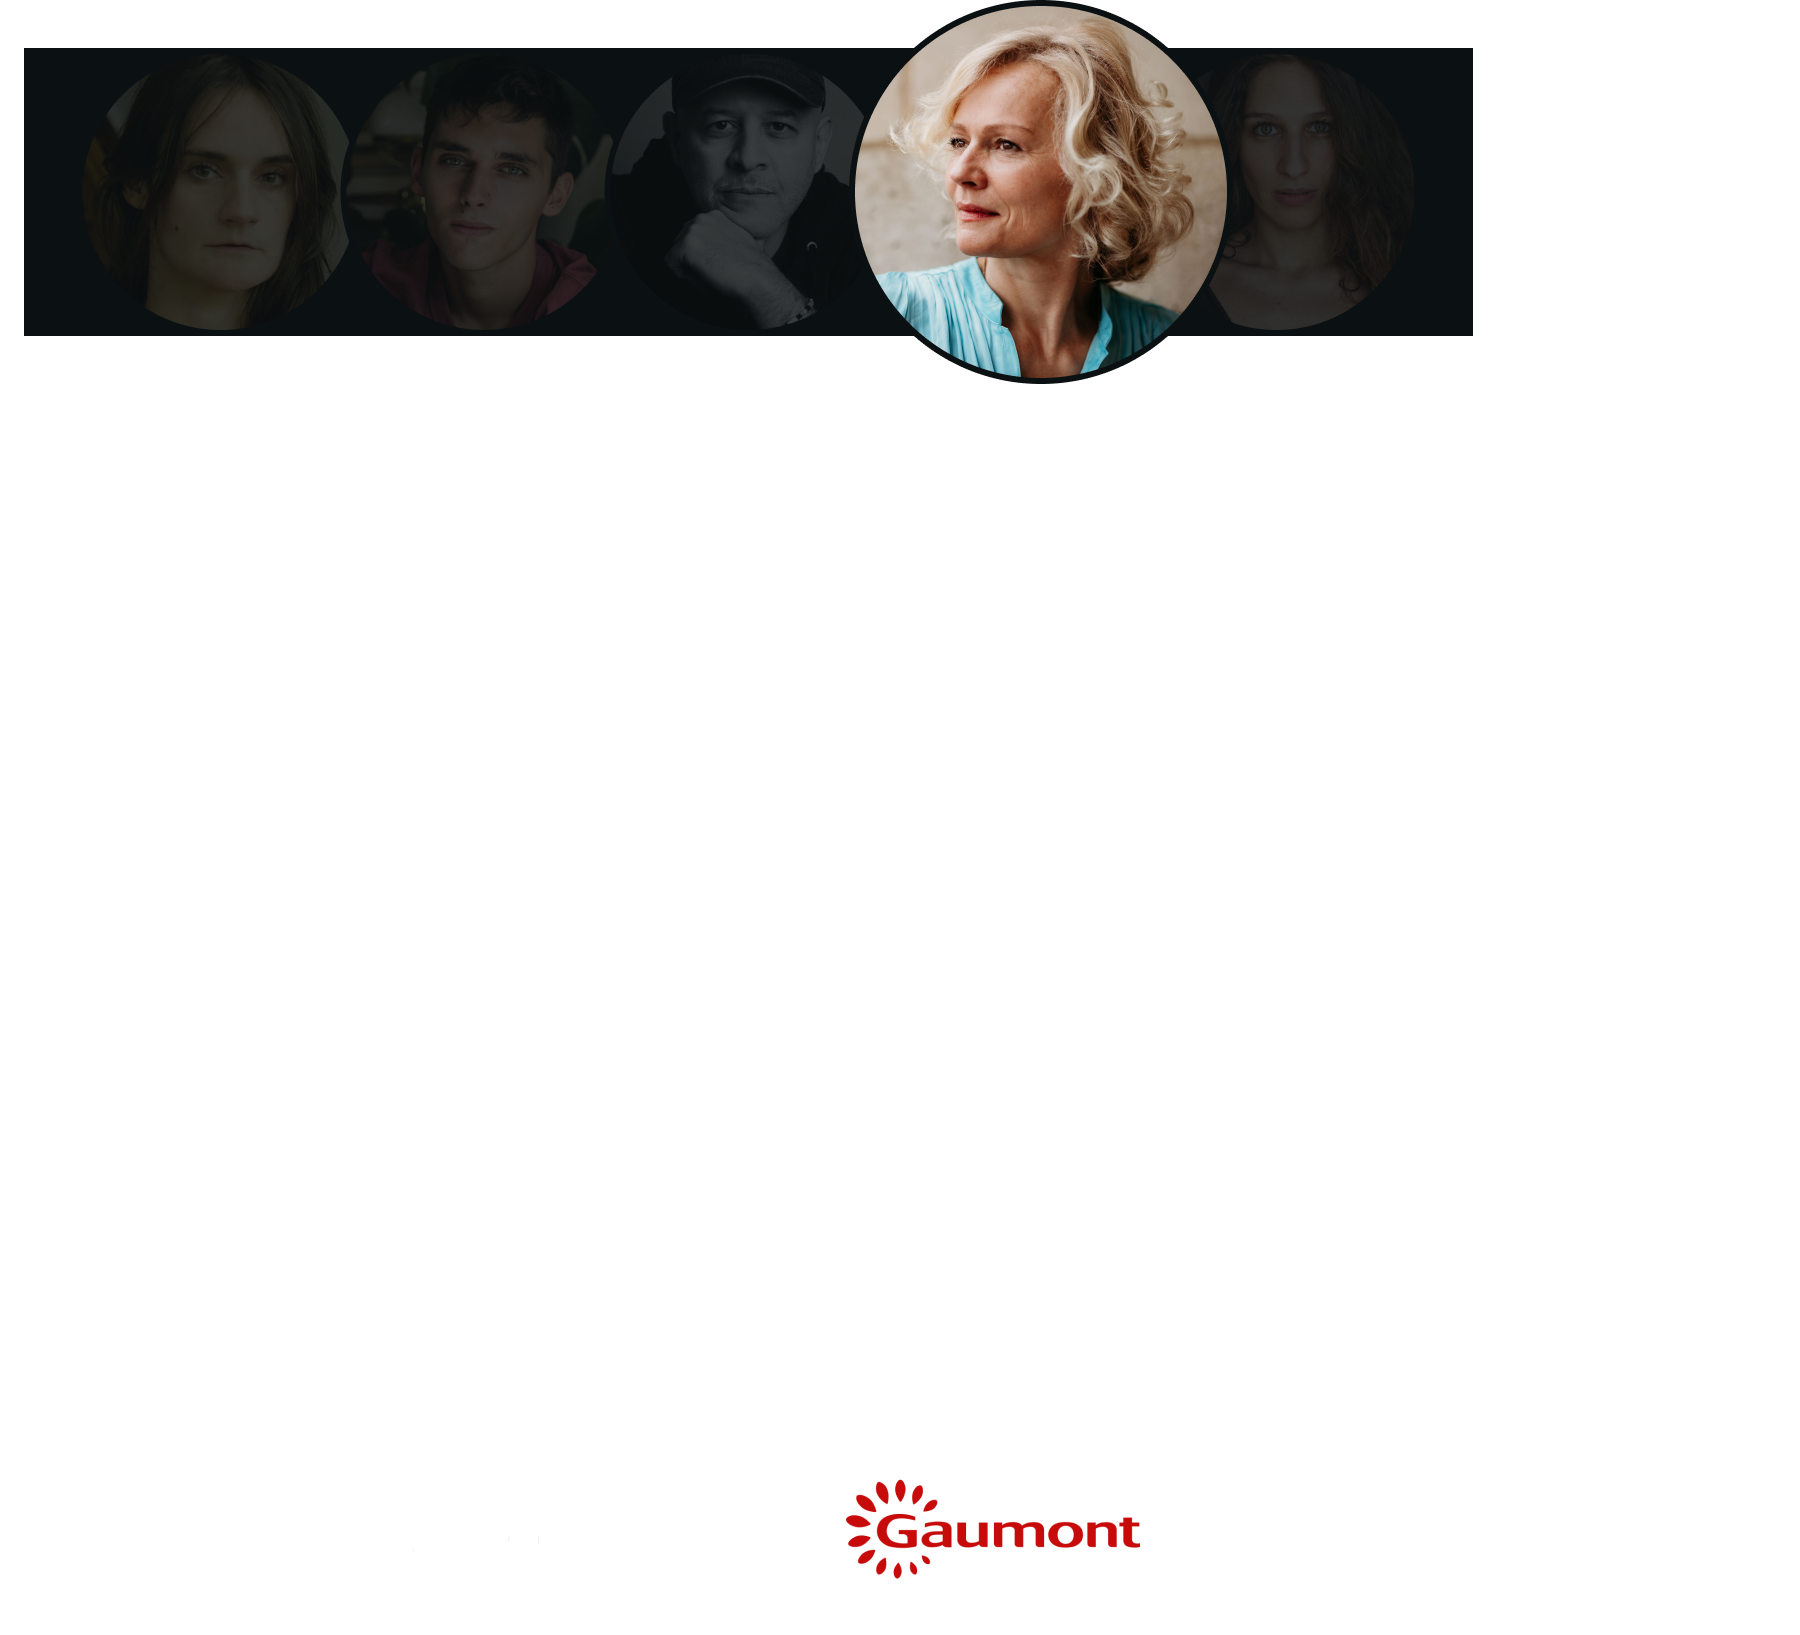
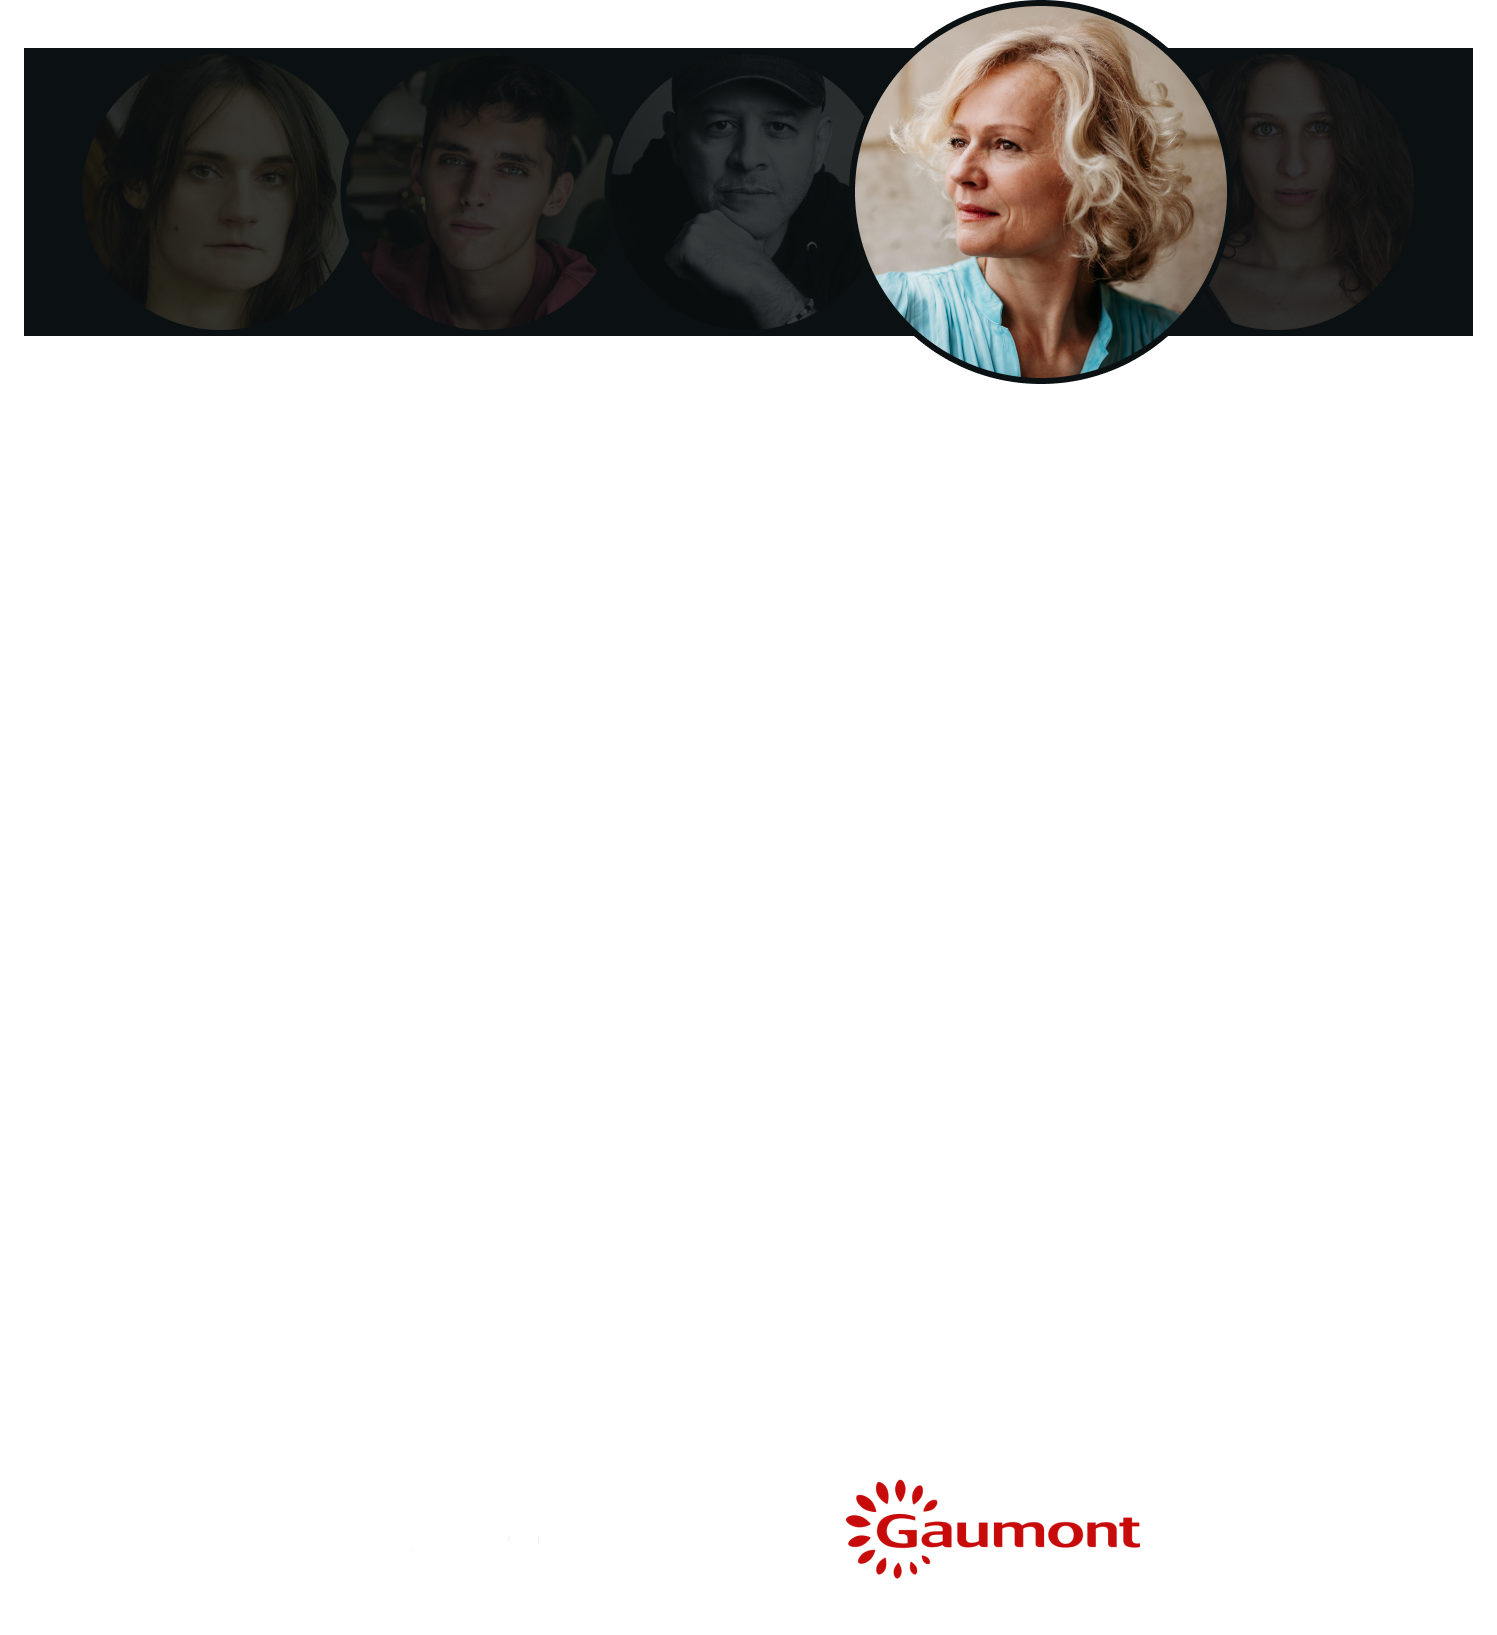
Fix mentor card format: re-export Kait card at correct width and remove background artifact
- Re-exported Kait card PNG cropped to 1497px width (was 1800px due to Logos frame overflow)
- Removed background: #000 from .mentor-card-img to eliminate visible rectangle behind cards

Changed region(s): [[0.2151, 0.0, 0.9833, 0.2495], [0.4609, 0.9046, 0.7682, 0.967], [0.0615, 0.0624, 0.1844, 0.2183]]

diff --git a/index.html b/index.html
@@ -743,7 +743,7 @@
             border-radius: 20px; margin-top: 24px; overflow: hidden;
         }
         .mentor-photos { width: 100%; height: auto; display: block; }
-        .mentor-card-img { width: 100%; height: auto; display: block; border-radius: 20px; margin-bottom: 16px; background: #000; }
+        .mentor-card-img { width: 100%; height: auto; display: block; border-radius: 20px; margin-bottom: 16px; }
         .mentor-body { padding: 20px 16px 24px; }
         .mentor-name {
             font-family: 'Figtree', sans-serif; font-weight: 300; font-size: 30px;
